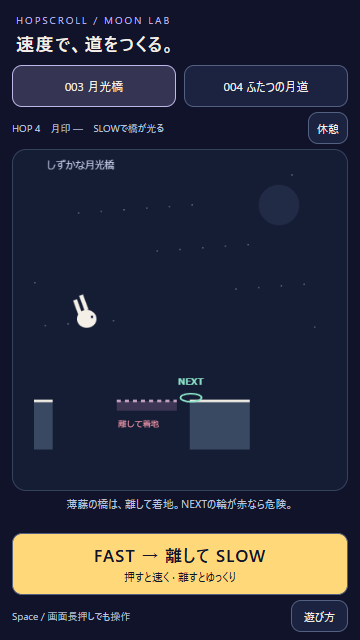
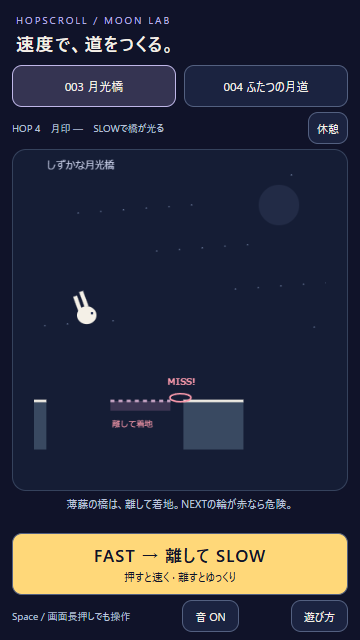
feat: soften Moon Lab checkpoint recovery and landing audio

diff --git a/moon-lab.css b/moon-lab.css
@@ -1,1 +1,3 @@
 :root{--night:#101329;--panel:#1b2340;--ink:#f4f0e7;--muted:#bdc5db;--moon:#bfb7e8;--safe:#8ee7cb;--danger:#ff9daf;--gold:#ffd879}*{box-sizing:border-box}body{margin:0;background:var(--night);color:var(--ink);font-family:"Yu Gothic UI","Hiragino Kaku Gothic ProN",sans-serif}main{height:100svh;min-height:570px;width:min(100%,460px);margin:auto;padding:12px 12px max(8px,env(safe-area-inset-bottom));display:flex;flex-direction:column;gap:8px}header{padding:0 4px}header span{font-size:10px;letter-spacing:2px;color:var(--moon)}h1{font-size:21px;font-weight:600;letter-spacing:.08em;margin:4px 0}nav{display:flex;gap:8px}button{font:inherit;cursor:pointer;color:var(--ink);border:1px solid #536080;border-radius:10px;background:var(--panel);min-height:42px}nav button{flex:1;font-size:12px}nav [aria-pressed=true]{border-color:var(--moon);background:#353452}button:focus-visible{outline:3px solid var(--gold);outline-offset:2px}.hud{display:flex;align-items:center;gap:10px;font-size:10px;color:var(--muted);white-space:nowrap}.hud button{margin-left:auto;min-height:32px;font-size:11px;padding:0 8px}.world{position:relative;flex:1;min-height:235px;background:#151d35;border-radius:14px;overflow:hidden;border:1px solid #35425c}canvas{display:block;width:100%;height:100%;object-fit:contain;touch-action:none}#panel{position:absolute;inset:auto 12px 12px;background:#151d35f5;border:1px solid #6a6991;border-radius:12px;padding:14px;text-align:center}#panel[hidden],button[hidden],#demo[hidden]{display:none}#eyebrow{font-size:10px;letter-spacing:2px;color:var(--moon);margin:0}h2{font-size:20px;margin:5px 0}#description{font-size:12px;line-height:1.7;margin:8px 0}#demo{display:grid;gap:5px;margin:10px 0}#bridge-demo{font-size:12px;color:var(--safe);border-bottom:3px solid var(--safe);padding:4px}#bridge-demo.fast{color:var(--danger);border-bottom:3px dashed var(--moon)}small{font-size:10px;color:var(--muted)}#action{display:block;width:100%;background:var(--moon);color:var(--night);font-weight:700}#restart{font-size:12px;width:100%;margin-top:6px}#hint{font-size:11px;line-height:1.5;min-height:32px;margin:0;color:var(--muted);text-align:center}#hold{background:var(--moon);color:var(--night);min-height:62px;touch-action:none;user-select:none;display:grid;align-content:center;gap:3px}#hold strong{font-size:17px;letter-spacing:1px}#hold span{font-size:11px}#hold.active{background:var(--gold)}footer{display:flex;align-items:center;justify-content:space-between;font-size:10px;color:var(--muted)}footer button{font-size:11px;min-height:32px;padding:0 12px}@media(max-height:650px){main{gap:5px;padding-top:7px}h1{font-size:18px}#panel{padding:10px}#description{margin:5px 0}#demo{margin:5px 0}}
+
+#resume{background:var(--safe);color:var(--night);font-size:13px;flex-shrink:0}#resume[hidden]{display:none}

diff --git a/moon-lab.html b/moon-lab.html
@@ -7,6 +7,7 @@
 <div class="world"><canvas id="world" width="360" height="420" aria-label="自動で跳び続ける兎。白い足場は安全。薄藤の月光橋はSLOW着地だけ安全。NEXTの輪が次の着地点です。"></canvas>
 <section id="panel" aria-live="polite"><p id="eyebrow">STAGE 003</p><h2 id="title">しずかな月光橋</h2><p id="description"></p><div id="demo"><span id="bridge-demo">SLOW：橋が光る・踏める</span><small>下のHOLDを押して、橋の変化を試そう。</small></div><button id="action">はじめる</button><button id="restart" hidden>最初から</button></section></div>
 <p id="hint">NEXTの輪は、今の速度のまま跳んだ着地点。</p>
+<button id="resume" hidden>確認できたら、SLOWで再開</button>
 <button id="hold"><strong id="speed">HOLD → FAST</strong><span>押すと速く · 離すとゆっくり</span></button>
-<footer><span>Space / 画面長押しでも操作</span><button id="help">遊び方</button></footer>
+<footer><span>Space / 画面長押しでも操作</span><button id="mute" aria-label="効果音のミュート" aria-pressed="false">音 ON</button><button id="help">遊び方</button></footer>
 </main><script type="module" src="src/moon-lab.mjs"></script></body></html>

diff --git a/docs/MOON_LAB_QA.md b/docs/MOON_LAB_QA.md
@@ -1,4 +1,46 @@
-# 月道の実験：Stage 003 / 004 QA
+# 月道の実験：Stage 003 / 004 QA — v0.2
+
+
+## v0.2 — checkpoint recovery and landing sound
+
+The current user request supersedes PR #9's original checkpoint positions. No terrain or speed/period/collision rule changed.
+
+| Stage | Previous | Current reference capture | Capture X interval | First recovery landing |
+|---|---|---|---|---|
+| 003 | Hop11 / 1655.7 | **Hop9 / 1363.2** | **1345–1385** | SLOW →1445.1, ordinary floor |
+| 004 | Hop13 / 1948.2 | **Hop12 / 1866.3** | **1840–1885** | SLOW →1948.2, ordinary floor |
+
+003 then proceeds FAST →1655.7 (normal), FAST .50s + SLOW .28s →1820.1 (bridge). Hop10 cannot capture the mark a second time. Actual landing X is retained; recovery does not teleport to a nominal reference X. For 004, the old recovery position fell in a gap after one SLOW hop, so moving one hop earlier fixes the same problem.
+
+Recovery immediately shows the restored scene in `checkpoint-ready` mode, phase0, no keys/pointers held. Physics remains frozen until “確認できたら、SLOWで再開”. This is a player-controlled look at NEXT, not a timed intro or automatic countdown. Preview camera is 60% horizontal scale to reveal the ordinary floor and upcoming bridge; play returns to normal scale. First capture, recovery and FULL MOON eligibility remain separate. Bonus collection is restored from the mark; full restart clears it.
+
+### Sound implementation and provenance
+
+`src/moon-audio.mjs` contains original Web Audio oscillator recipes; no asset download or third-party audio/code dependency. [UI SFX](https://uisfx.com/) Soft/Glass descriptions informed the sound direction. [MADO Game Audio Loop](https://github.com/madowaku/mado-game-audio-loop) informed keeping an explicit experiment/evidence boundary; no MGAL candidate selection or audition result is claimed.
+
+| Cue | Synthesis | Approximate end |
+|---|---|---|
+| Normal SLOW | sine 150→95 Hz, rounded 8ms attack | 142ms |
+| Normal FAST | sine 260→175 Hz, lighter/shorter | 112ms |
+| Moon bridge | quiet sine 880 + quieter 1320 Hz | 242ms |
+| Dango | sine 420→560 Hz | 182ms |
+| Goal | 523 / 659 / 784 Hz, offsets 0 / 110 / 220ms | 412ms |
+
+Master gain .32; recipe gain multiplies .12. Subtle four-step detune 0/+8/−6/+4 cents (not semitones). No soundtrack or beat clock. All sound is downstream of real successful physics landings: one `{type:'landing',cue,hop,x}` event per landing, including goal. Priority goal > bonus > bridge > FAST/SLOW; rewards replace the base landing tap. A bridge FAST failure emits no landing cue. Rendering/prediction produces no audio. Goal is one cue with three notes, not three landing events.
+
+AudioContext is created/resumed only from a user gesture. No delayed replay queue: blocked/muted audio events are dropped. Pause, blur, hidden visibility and pagehide stop active voices and suspend audio. Resume/unmute requires a gesture; pending resume cannot override mute/background state. Mute is page-session state. Unsupported/blocked Web Audio leaves the game playable. New cues stop previous voices to bound simultaneous sound even when a test advances virtual frames faster than the audio clock.
+
+### v0.2 verification
+
+- All Campaign / STAR RUN / Moon Node suites pass, including four-frame-rate exact cue sequence comparison (30/60/120/144Hz), original/alternate/solver routes, branch dango and FULL MOON.
+- Both checkpoint capture intervals sampled every 0.5px INCLUDING endpoints: first recovery SLOW hop is normal and safe. For003 the following FAST normal hop and mixed bridge hop also succeed at every sampled position.
+- Reference acquisition occurs once at Hop9 / Hop12. Midair calls emit zero landing cues; each successful hop emits exactly one; bridge FAST failure emits none; dango emits one replacing the base tap.
+- Updated real-browser suite verifies recovery freeze, phase0/input reset, NEXT, visible controls and S/F/M normal→normal→bridge recovery at 360x640, 720x1280, 320x700. 004 dango checkpoint recovery also completes without FULL MOON.
+- `node tests/moon-audio-browser.mjs`: five recipes rendered in Chrome OfflineAudioContext at48kHz; nonzero output, peak below0.04 full-scale and zero tail after0.5s. [Metrics](moon-audio-metrics.json) record results, not perceived loudness. Live normal landings produce nonzero AudioContext analyser samples and exactly two cues for two landings. Mute/retry, unmute, pause/resume, blur and absent AudioContext are exercised in real time.
+- Existing build and campaign browser smoke remain regression checks. CI runs both Moon browser suites.
+- [Recovery 320x700](moon-lab-screenshots/recovery-320.png) / [360x640](moon-lab-screenshots/recovery-360.png) / [720x1280](moon-lab-screenshots/recovery-720.png).
+
+**Not evaluated:** human listening, pleasantness/fatigue, physical speaker output, Android audio unlock/app lifecycle and actual device play. Browser waveform evidence does not establish any of these. Next human audition should compare repeated normal SLOW/FAST taps, bridge bell and dango at a comfortable device volume, then check whether recovery encourages another try.
 
 ## Scope and play
 
@@ -22,7 +64,7 @@ Only 003 (22-hop reference) and 004 (26-hop reference) are implemented here. Cam
 
 1. Stage 003 provisional bridge/normal overlap pairs `775–873 / 857–955`, `1232–1330 / 1314–1494`, `2439–2537 / 2521–2619` are partitioned at 865, 1322, 2529. No coordinate has both support types. The inset gap at the shared boundary is visibly unpainted. All intended landings remain safe; reference minimum safe clearance is 32.5 px.
 2. Stage 004 prose specifies a far island at 1620 but its provisional platform list omits it. Added `1578–1652`; shifted the following platform start from 1650 to 1660 so the islands remain distinct. Both two-hop branches reunite at 1701.9. This follows the written mechanic and the design's explicit allowance to adjust provisional coordinates.
-3. Stage 004 moon-mark capture zone is 1918–1989 inside the ordinary floor. Using the entire 1817–1997 platform incorrectly activated at reference Hop12; the narrowed zone activates at intended Hop13 (1948.2).
+3. v0.1 used Stage004 capture zone 1918–1989 (Hop13). v0.2 deliberately supersedes this with Hop12 / 1840–1885 for a safe SLOW recovery hop; see below.
 4. The exact S/F/M reference is valid, but its immediate re-press after a bridge landing is not tolerant of EARLY input: that necessarily violates the specified SLOW-at-landing rule. A robust alternate input schedule delays two re-presses by 60 ms, with the preceding release also delayed 60 ms to preserve subsequent position. This changes no game rule. Specifically Stage003 uses release 9.140 / re-press 9.420 s and release 16.160 / re-press 16.440 s (instead of 9.080/9.360 and 16.100/16.380). All other transitions use the reference schedule.
 5. Reference hop counts are examples, not enforced lengths. Search found shorter 20-hop routes through each stage and a 21-hop bonus route through 004. HUD therefore counts actual hops without presenting 22/26 as mandatory totals.
 
